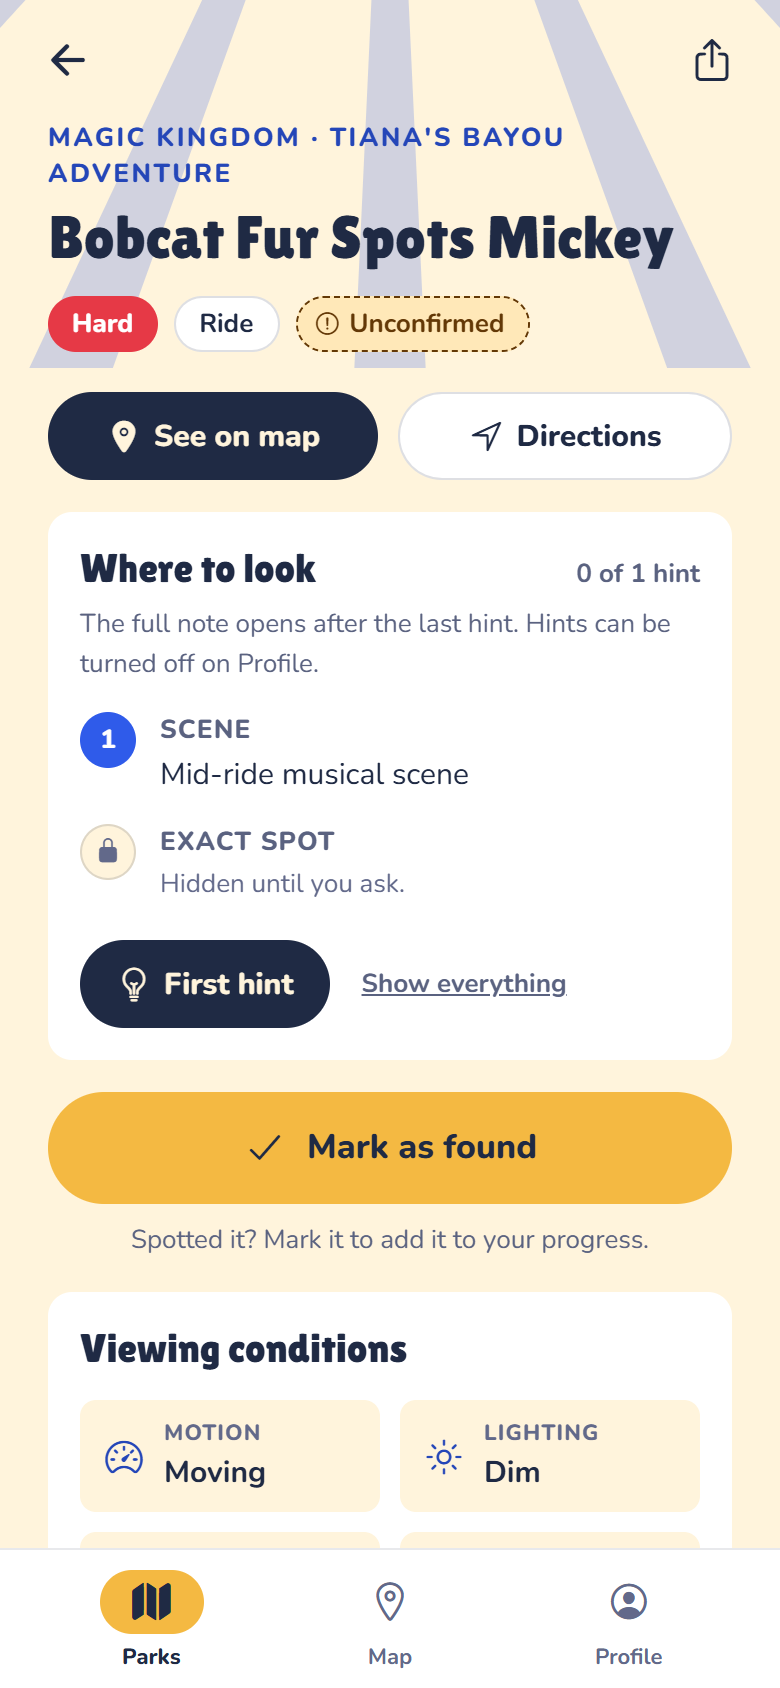
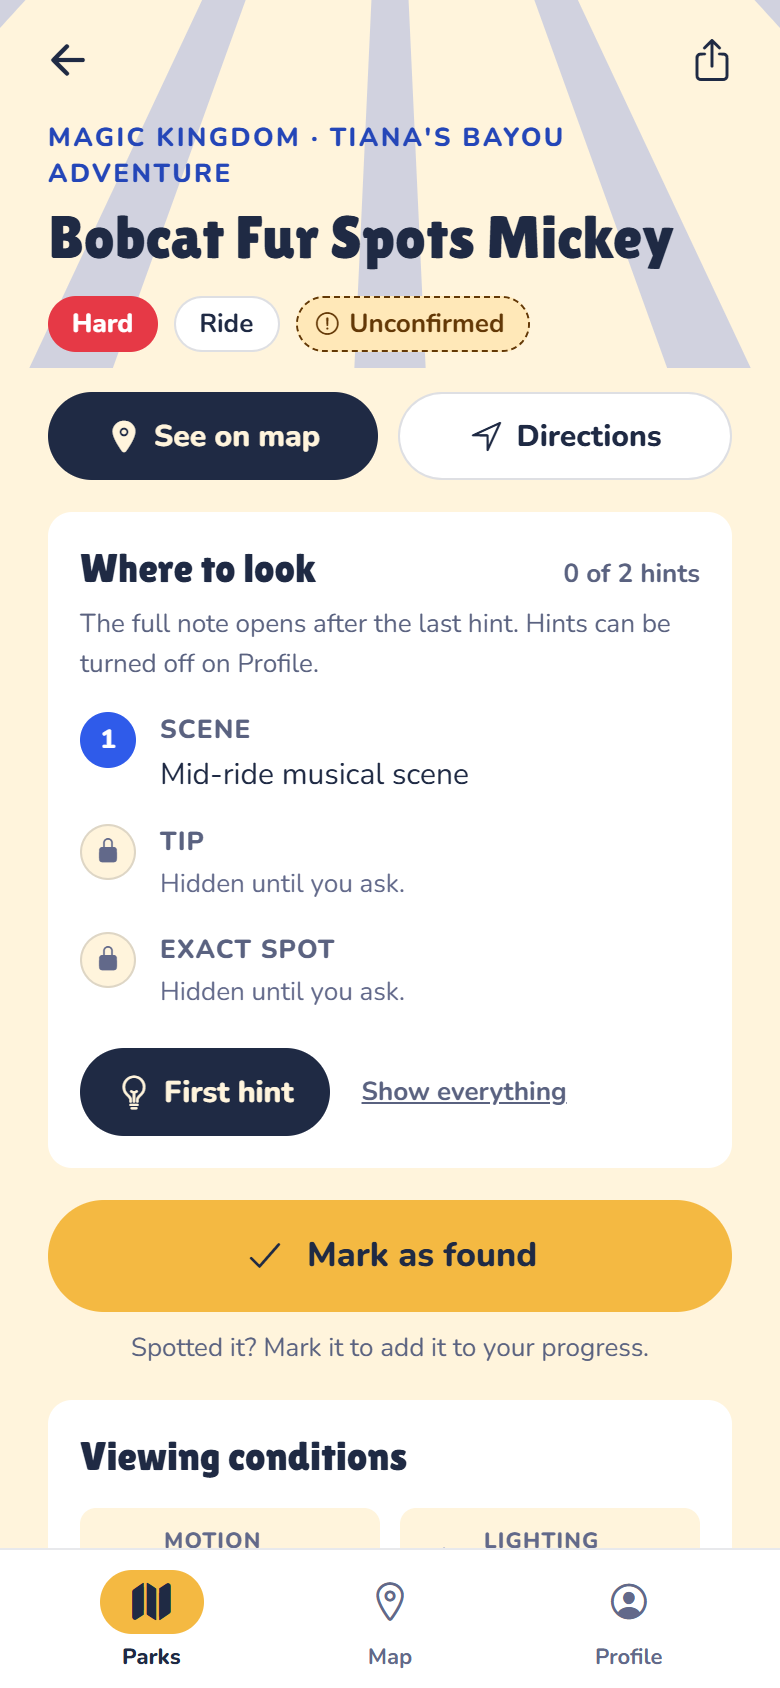
Make the tip the middle hint, between the scene and the exact spot (#56)
The hint ladder was the free scene and then the exact spot, with the tip
held back in its own card until every hint was open, so a guest using hints
rarely saw it before finding the Mickey. It is now the first hint: scene
(free), then tip, then exact spot, then orientation where there is one.
Broad to narrow, and the tip is the one that teaches how to look.

The separate Best tip card is gone, since the tip now lives in Where to
look; with hints off it shows there with everything else. A find without a
tip goes straight from the scene to the exact spot. The Profile setting,
the settings store comment, the README, and the entry screenshot describe
the new order.

diff --git a/__tests__/EntryDetailScreen.test.tsx b/__tests__/EntryDetailScreen.test.tsx
@@ -5,11 +5,13 @@ import { getAllEntries } from '../src/data/query';
 import { useFoundStore } from '../src/store/useFoundStore';
 import { useSettingsStore } from '../src/store/useSettingsStore';
 
-// A find with a scene, an exact spot, a tip, and no orientation, so the
-// ladder is exactly the free scene plus one hint.
+// A find with a scene, a tip, an exact spot, and no orientation, so the
+// ladder is the free scene plus two hints: the tip, then the exact spot.
 const entry = getAllEntries().find(
   (e) => e.whereToLook.scene && e.whereToLook.exactSpot && e.bestTip && !e.whereToLook.orientation
 )!;
+// A find with no tip, whose ladder is the scene plus the exact spot alone.
+const tipless = getAllEntries().find((e) => !e.bestTip && !e.whereToLook.orientation);
 
 jest.mock('@react-navigation/native', () => ({
   useNavigation: () => ({ navigate: jest.fn(), goBack: jest.fn() }),
@@ -29,26 +31,47 @@ beforeEach(() => {
 });
 
 describe('EntryDetailScreen hints', () => {
-  it('shows the scene up front and keeps the exact spot and tip for later', () => {
+  it('shows the scene up front and keeps the tip and exact spot for later', () => {
     render(<EntryDetailScreen />);
     expect(screen.getByText(entry.whereToLook.scene)).toBeTruthy();
-    expect(screen.queryByText(entry.whereToLook.exactSpot)).toBeNull();
     expect(screen.queryByText(entry.bestTip!)).toBeNull();
-    expect(screen.getByText('0 of 1 hint')).toBeTruthy();
+    expect(screen.queryByText(entry.whereToLook.exactSpot)).toBeNull();
+    expect(screen.getByText('0 of 2 hints')).toBeTruthy();
   });
 
-  it('opens the exact spot on the first hint, not the scene again', () => {
+  it('opens the tip first, then the exact spot', () => {
     render(<EntryDetailScreen />);
     fireEvent.press(screen.getByRole('button', { name: 'Show the first hint' }));
-    expect(screen.getByText(entry.whereToLook.exactSpot)).toBeTruthy();
     expect(screen.getByText(entry.bestTip!)).toBeTruthy();
-    expect(screen.queryByText(/of 1 hint/)).toBeNull();
+    expect(screen.queryByText(entry.whereToLook.exactSpot)).toBeNull();
+    expect(screen.getByText('1 of 2 hints')).toBeTruthy();
+
+    fireEvent.press(screen.getByRole('button', { name: 'Show the next hint' }));
+    expect(screen.getByText(entry.whereToLook.exactSpot)).toBeTruthy();
+    expect(screen.queryByText(/of 2 hints/)).toBeNull();
+  });
+
+  it('shows the tip only once, inside where to look', () => {
+    useSettingsStore.getState().setHintMode(false);
+    render(<EntryDetailScreen />);
+    expect(screen.getAllByText(entry.bestTip!)).toHaveLength(1);
+    expect(screen.getByText('Tip')).toBeTruthy();
   });
 
   it('shows everything at once with hints off', () => {
     useSettingsStore.getState().setHintMode(false);
     render(<EntryDetailScreen />);
     expect(screen.getByText(entry.whereToLook.scene)).toBeTruthy();
+    expect(screen.getByText(entry.bestTip!)).toBeTruthy();
     expect(screen.getByText(entry.whereToLook.exactSpot)).toBeTruthy();
+  });
+
+  it('goes straight from the scene to the exact spot when a find has no tip', () => {
+    if (!tipless) return;
+    mockEntryId = tipless.id;
+    render(<EntryDetailScreen />);
+    expect(screen.getByText('0 of 1 hint')).toBeTruthy();
+    fireEvent.press(screen.getByRole('button', { name: 'Show the first hint' }));
+    expect(screen.getByText(tipless.whereToLook.exactSpot)).toBeTruthy();
   });
 });

diff --git a/src/screens/EntryDetailScreen.tsx b/src/screens/EntryDetailScreen.tsx
@@ -120,8 +120,12 @@ export default function EntryDetailScreen() {
   const title = labelOrFallback(entry.display?.entryTitle, "Hidden Find");
   const eyebrow = [entry.display?.parkName, entry.display?.attractionName].filter(Boolean).join(" · ");
 
+  // Broad to narrow: the scene points at the area, the tip says how to look
+  // there, and the exact spot gives the answer. Tips are written so they
+  // never name the answer themselves.
   const steps: LookStep[] = [
     { label: "Scene", value: entry.whereToLook.scene },
+    ...(entry.bestTip ? [{ label: "Tip", value: entry.bestTip }] : []),
     { label: "Exact spot", value: entry.whereToLook.exactSpot },
     ...(entry.whereToLook.orientation ? [{ label: "Orientation", value: entry.whereToLook.orientation }] : []),
   ];
@@ -240,16 +244,6 @@ export default function EntryDetailScreen() {
           <Text style={styles.helper}>
             {found ? "Nice catch. This counts toward your progress." : "Spotted it? Mark it to add it to your progress."}
           </Text>
-
-          {entry.bestTip && !spoilersHidden && (
-            <View style={styles.tip}>
-              <Ionicons name="bulb-outline" size={24} color={t.colors.tipText} />
-              <View style={styles.tipText}>
-                <Text style={styles.tipLabel}>Best tip</Text>
-                <Text style={styles.tipBody}>{entry.bestTip}</Text>
-              </View>
-            </View>
-          )}
 
           {entry.funFacts && entry.funFacts.length > 0 && !spoilersHidden && (
             <View style={styles.card}>
@@ -472,30 +466,6 @@ const createStyles = (t: Theme) =>
     },
     cardTitle: {
       ...text.sectionTitle,
-      color: t.colors.text,
-    },
-    tip: {
-      flexDirection: "row",
-      alignItems: "flex-start",
-      gap: spacing.md - 4,
-      backgroundColor: t.colors.tip,
-      borderRadius: radii.md,
-      paddingVertical: spacing.md - 2,
-      paddingHorizontal: spacing.md,
-    },
-    tipText: {
-      flex: 1,
-      gap: 2,
-    },
-    tipLabel: {
-      ...text.labelCaps,
-      fontSize: 13,
-      lineHeight: 18,
-      color: t.colors.tipText,
-    },
-    tipBody: {
-      ...text.body,
-      lineHeight: 22,
       color: t.colors.text,
     },
     fact: {

diff --git a/src/screens/ProfileScreen.tsx b/src/screens/ProfileScreen.tsx
@@ -349,8 +349,8 @@ export default function ProfileScreen() {
               <View style={styles.settingText}>
                 <Text style={styles.settingTitle}>Hints one at a time</Text>
                 <Text style={styles.caption}>
-                  Where-to-look shows the scene, then opens a step per tap, and the full note waits for the last hint.
-                  Off shows everything at once.
+                  Where-to-look shows the scene, then the tip and the exact spot one tap at a time, and the full note
+                  waits for the last hint. Off shows everything at once.
                 </Text>
               </View>
               <Switch

diff --git a/src/store/useSettingsStore.ts b/src/store/useSettingsStore.ts
@@ -26,9 +26,9 @@ interface SettingsState {
   confirmedOnly: boolean;
   setConfirmedOnly: (confirmedOnly: boolean) => void;
   /**
-   * Hints one at a time: an entry's where-to-look shows the scene, opens the
-   * rest a step per tap, and the description, tip, and fun facts wait for
-   * the last step. Off shows
+   * Hints one at a time: an entry's where-to-look shows the scene, then opens
+   * the tip and the exact spot a step per tap, and the description and fun
+   * facts wait for the last step. Off shows
    * every field note in full. A find already marked always shows in full.
    */
   hintMode: boolean;

diff --git a/README.md b/README.md
@@ -57,7 +57,7 @@ Screenshots are from the web build at phone width.
 - Hide found: a hunting mode on every park screen that leaves only what's left to spot
 - Related finds on each entry, so one attraction can be swept without leaving the screen
 - Closest to you: tap locate on the Map tab and the list sorts by walking time, switching to the park you're standing in
-- Hints one at a time: where-to-look shows the scene up front, then opens a step per tap, and the full note waits for the last hint. Off in Profile shows everything
+- Hints one at a time: where-to-look shows the scene up front, then the tip and the exact spot one tap at a time, and the full note waits for the last hint. Off in Profile shows everything
 - Reference photos: an optional photo per entry, blurred behind a "Reveal photo" button while hints are on, full screen on tap once shown
 - Share a find, a park, or your progress. Share text names the find and where it is, never where to look
 - Still there? Two taps on any entry report it seen or missing, and each entry shows when it was last seen
